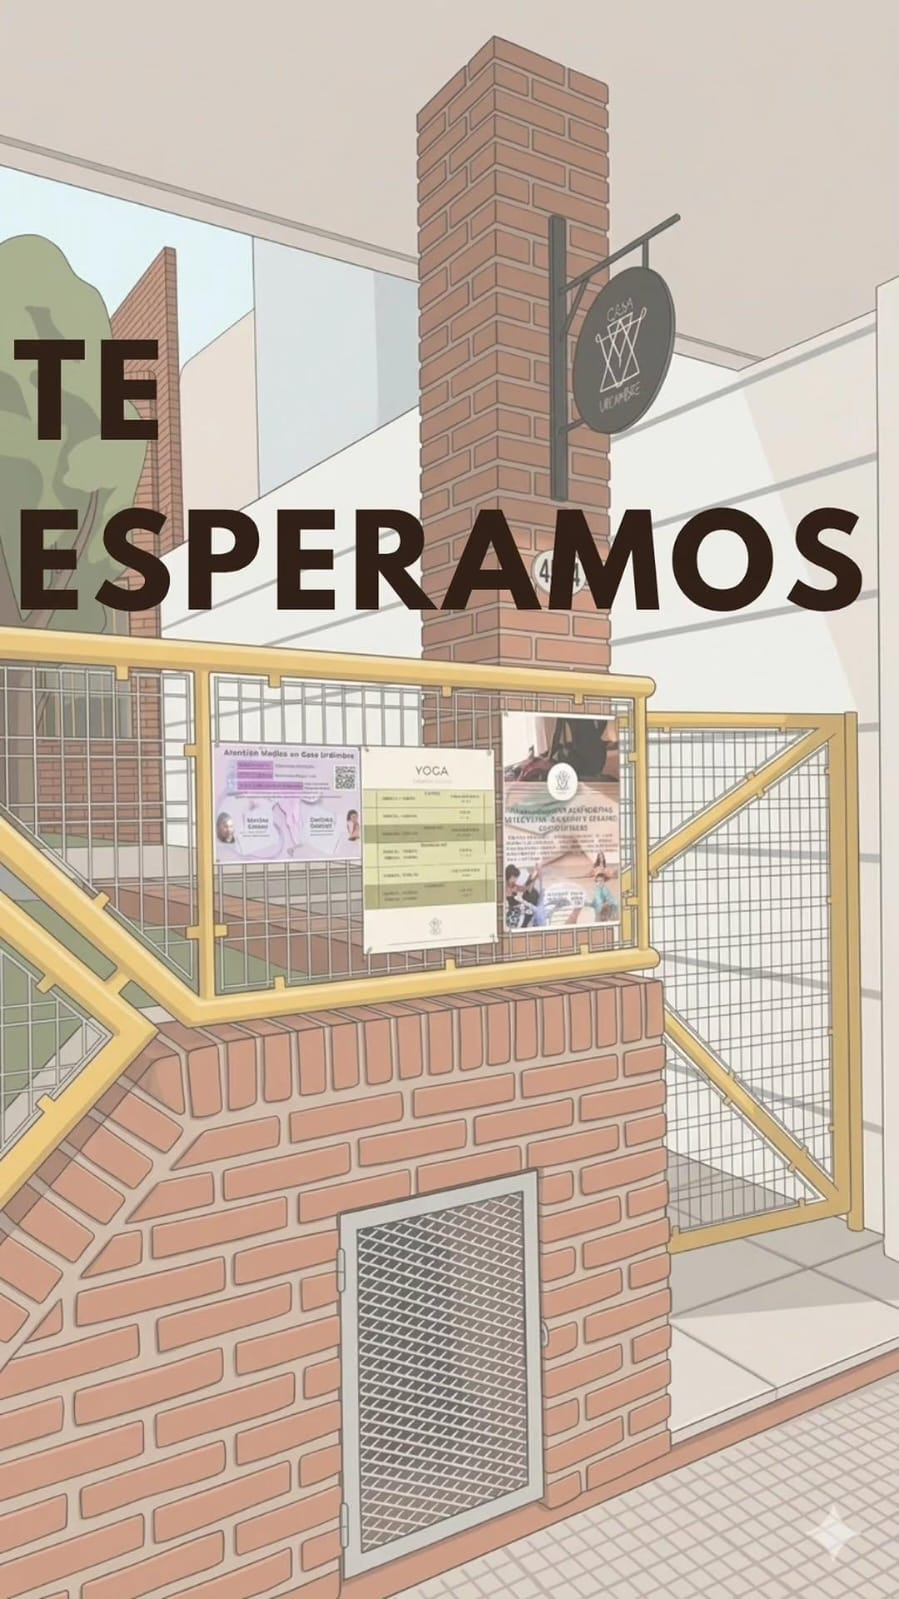
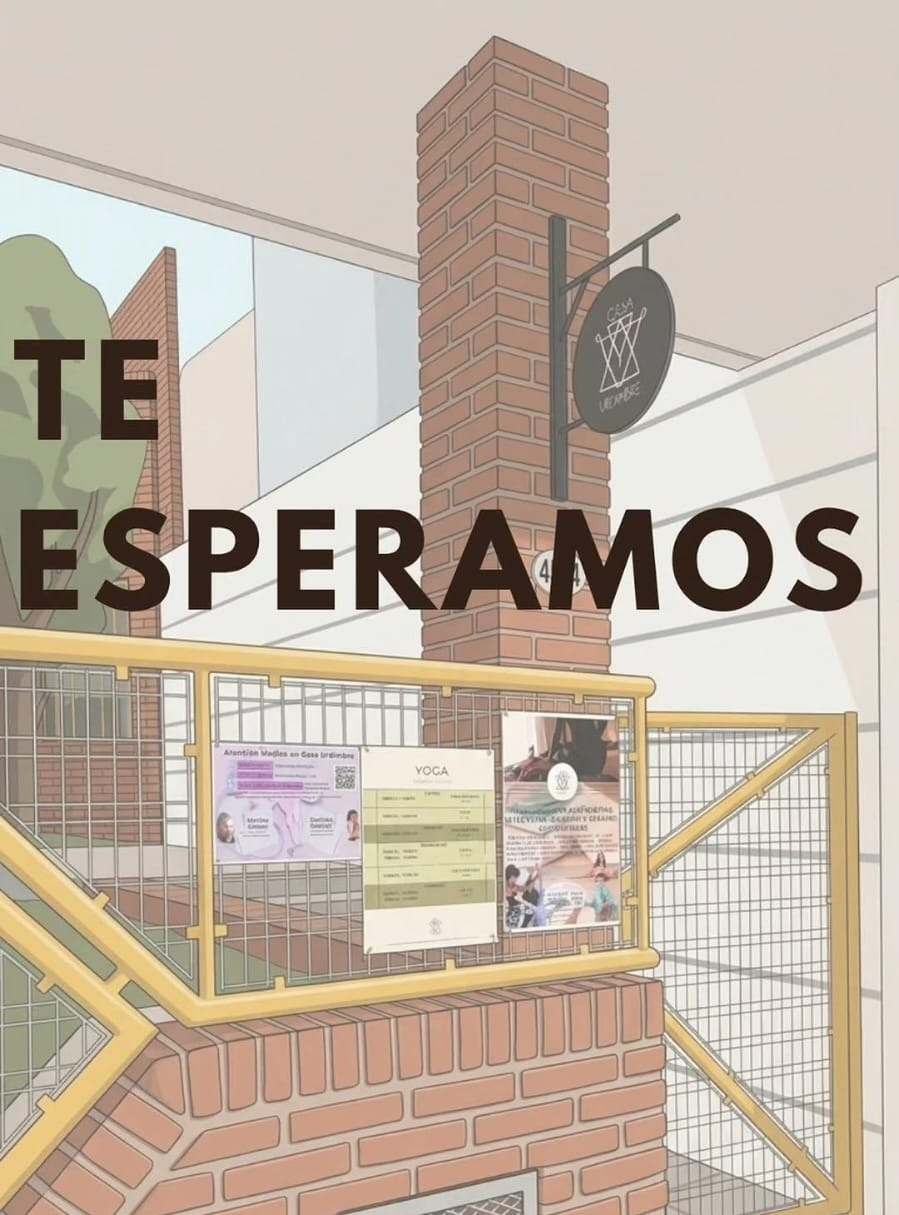
imagenes 4/3

diff --git a/styles.css b/styles.css
@@ -185,7 +185,7 @@ img { max-width: 100%; display: block; }
   width: 100%;
   border-radius: var(--radius);
   box-shadow: var(--shadow-lg);
-  aspect-ratio: 9/13;
+  aspect-ratio: 4/3;
   object-fit: cover;
 }
 
